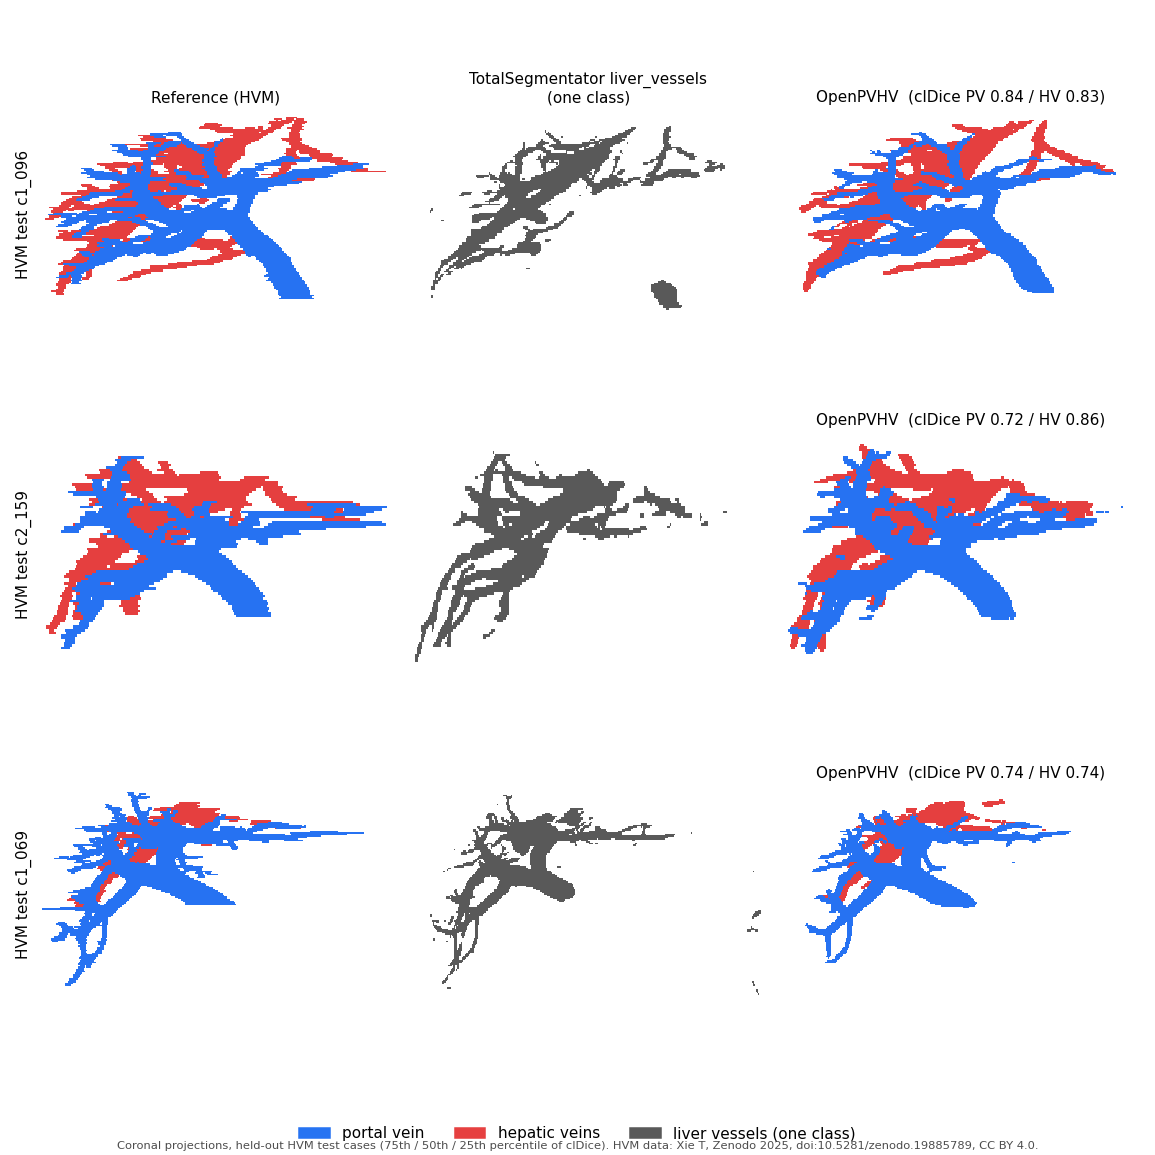
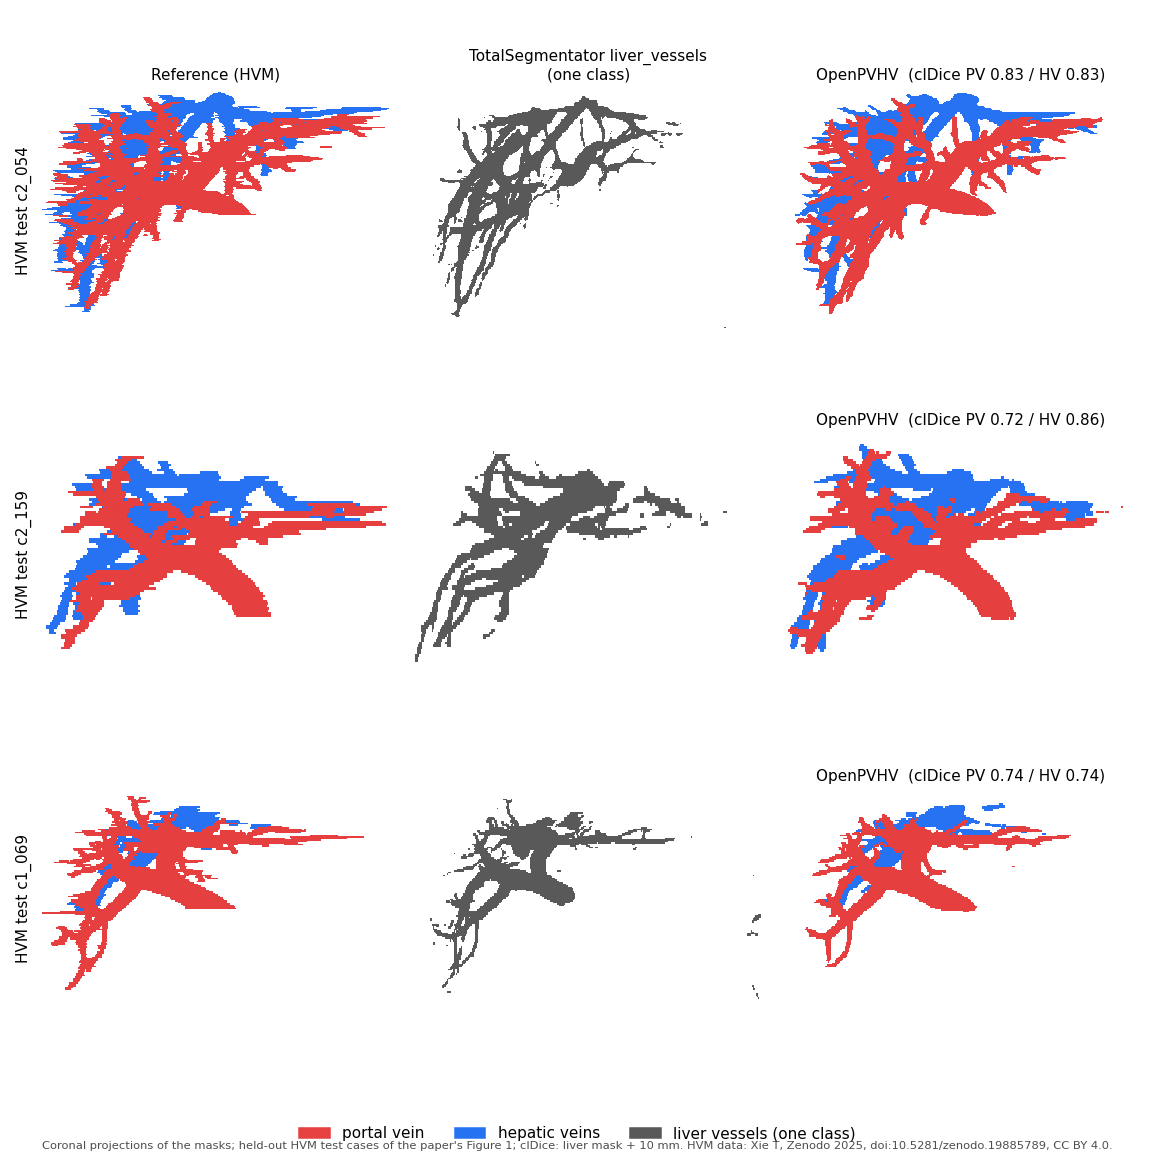
README figure: the paper's Figure 1 cases and colours, clDice inside liver mask + 10 mm
Claude-Session: https://claude.ai/code/session_013hoZgau6u1jGJnVgVDws1N

diff --git a/docs/make_hvm_examples.py b/docs/make_hvm_examples.py
@@ -1,7 +1,8 @@
 """Make docs/hvm_examples.png: coronal projections of the reference, TotalSegmentator liver_vessels and OpenPVHV on three held-out
-HVM test cases (75th / 50th / 25th percentile of clDice in the paper). Masks only (HVM, CC BY 4.0).
+HVM test cases, the cases of the paper's Figure 1 (75th / 50th / 25th percentile of the mean of the portal and hepatic clDice,
+liver mask + 10 mm, 55 cases with output). Masks only, not cut (HVM, CC BY 4.0).
 usage: python make_hvm_examples.py <ref dir: <case>_gt.nii.gz, 1 PV / 2 HV> <OpenPVHV dir: <case>.nii.gz>
-                                   <TS dir: <case>_liver_vessels.nii.gz> <out.png> [<per-case csv with clDice>]
+                                   <TS dir: <case>_liver_vessels.nii.gz> <out.png> [<per-case csv with clDice, liver mask + 10 mm>]
 """
 import csv, sys
 import numpy as np, nibabel as nib
@@ -10,8 +11,8 @@ matplotlib.use("Agg")
 import matplotlib.pyplot as plt
 from matplotlib.patches import Patch
 
-CASES = ["c1_096", "c2_159", "c1_069"]
-PV, HV, TS = np.array([0.15, 0.45, 0.95]), np.array([0.90, 0.25, 0.25]), np.array([0.35, 0.35, 0.35])
+CASES = ["c2_054", "c2_159", "c1_069"]
+PV, HV, TS = np.array([0.90, 0.25, 0.25]), np.array([0.15, 0.45, 0.95]), np.array([0.35, 0.35, 0.35])   # as in the paper: PV red, HV blue
 
 
 def load(f):
@@ -54,7 +55,7 @@ def main():
                 a.set_ylabel(f"HVM test {c}", fontsize=10)
     fig.legend(handles=[Patch(color=PV, label="portal vein"), Patch(color=HV, label="hepatic veins"),
                         Patch(color=TS, label="liver vessels (one class)")], loc="lower center", ncol=3, frameon=False, fontsize=10)
-    fig.text(0.5, 0.005, "Coronal projections, held-out HVM test cases (75th / 50th / 25th percentile of clDice). HVM data: Xie T, "
+    fig.text(0.5, 0.005, "Coronal projections of the masks; held-out HVM test cases of the paper's Figure 1; clDice: liver mask + 10 mm. HVM data: Xie T, "
              "Zenodo 2025, doi:10.5281/zenodo.19885789, CC BY 4.0.", ha="center", fontsize=7.5, color="0.3")
     plt.tight_layout(rect=(0, 0.04, 1, 1))
     plt.savefig(out, dpi=110)

diff --git a/README.md b/README.md
@@ -19,8 +19,9 @@ License 2.0.
 
 ![Coronal projections of the reference, TotalSegmentator liver_vessels and OpenPVHV on three held-out HVM test cases](docs/hvm_examples.png)
 
-*Held-out HVM test cases (75th / 50th / 25th percentile of clDice): reference, TotalSegmentator `liver_vessels` (one class) and
-OpenPVHV (portal vein blue, hepatic veins red), coronal projections. HVM data: Xie T, Zenodo 2025, doi:10.5281/zenodo.19885789,
+*Held-out HVM test cases of the paper's Figure 1 (75th / 50th / 25th percentile of clDice, liver mask + 10 mm as in the Evaluation
+table): reference, TotalSegmentator `liver_vessels` (one class) and OpenPVHV (portal vein red, hepatic veins blue), coronal
+projections. HVM data: Xie T, Zenodo 2025, doi:10.5281/zenodo.19885789,
 CC BY 4.0.*
 
 ## Output
